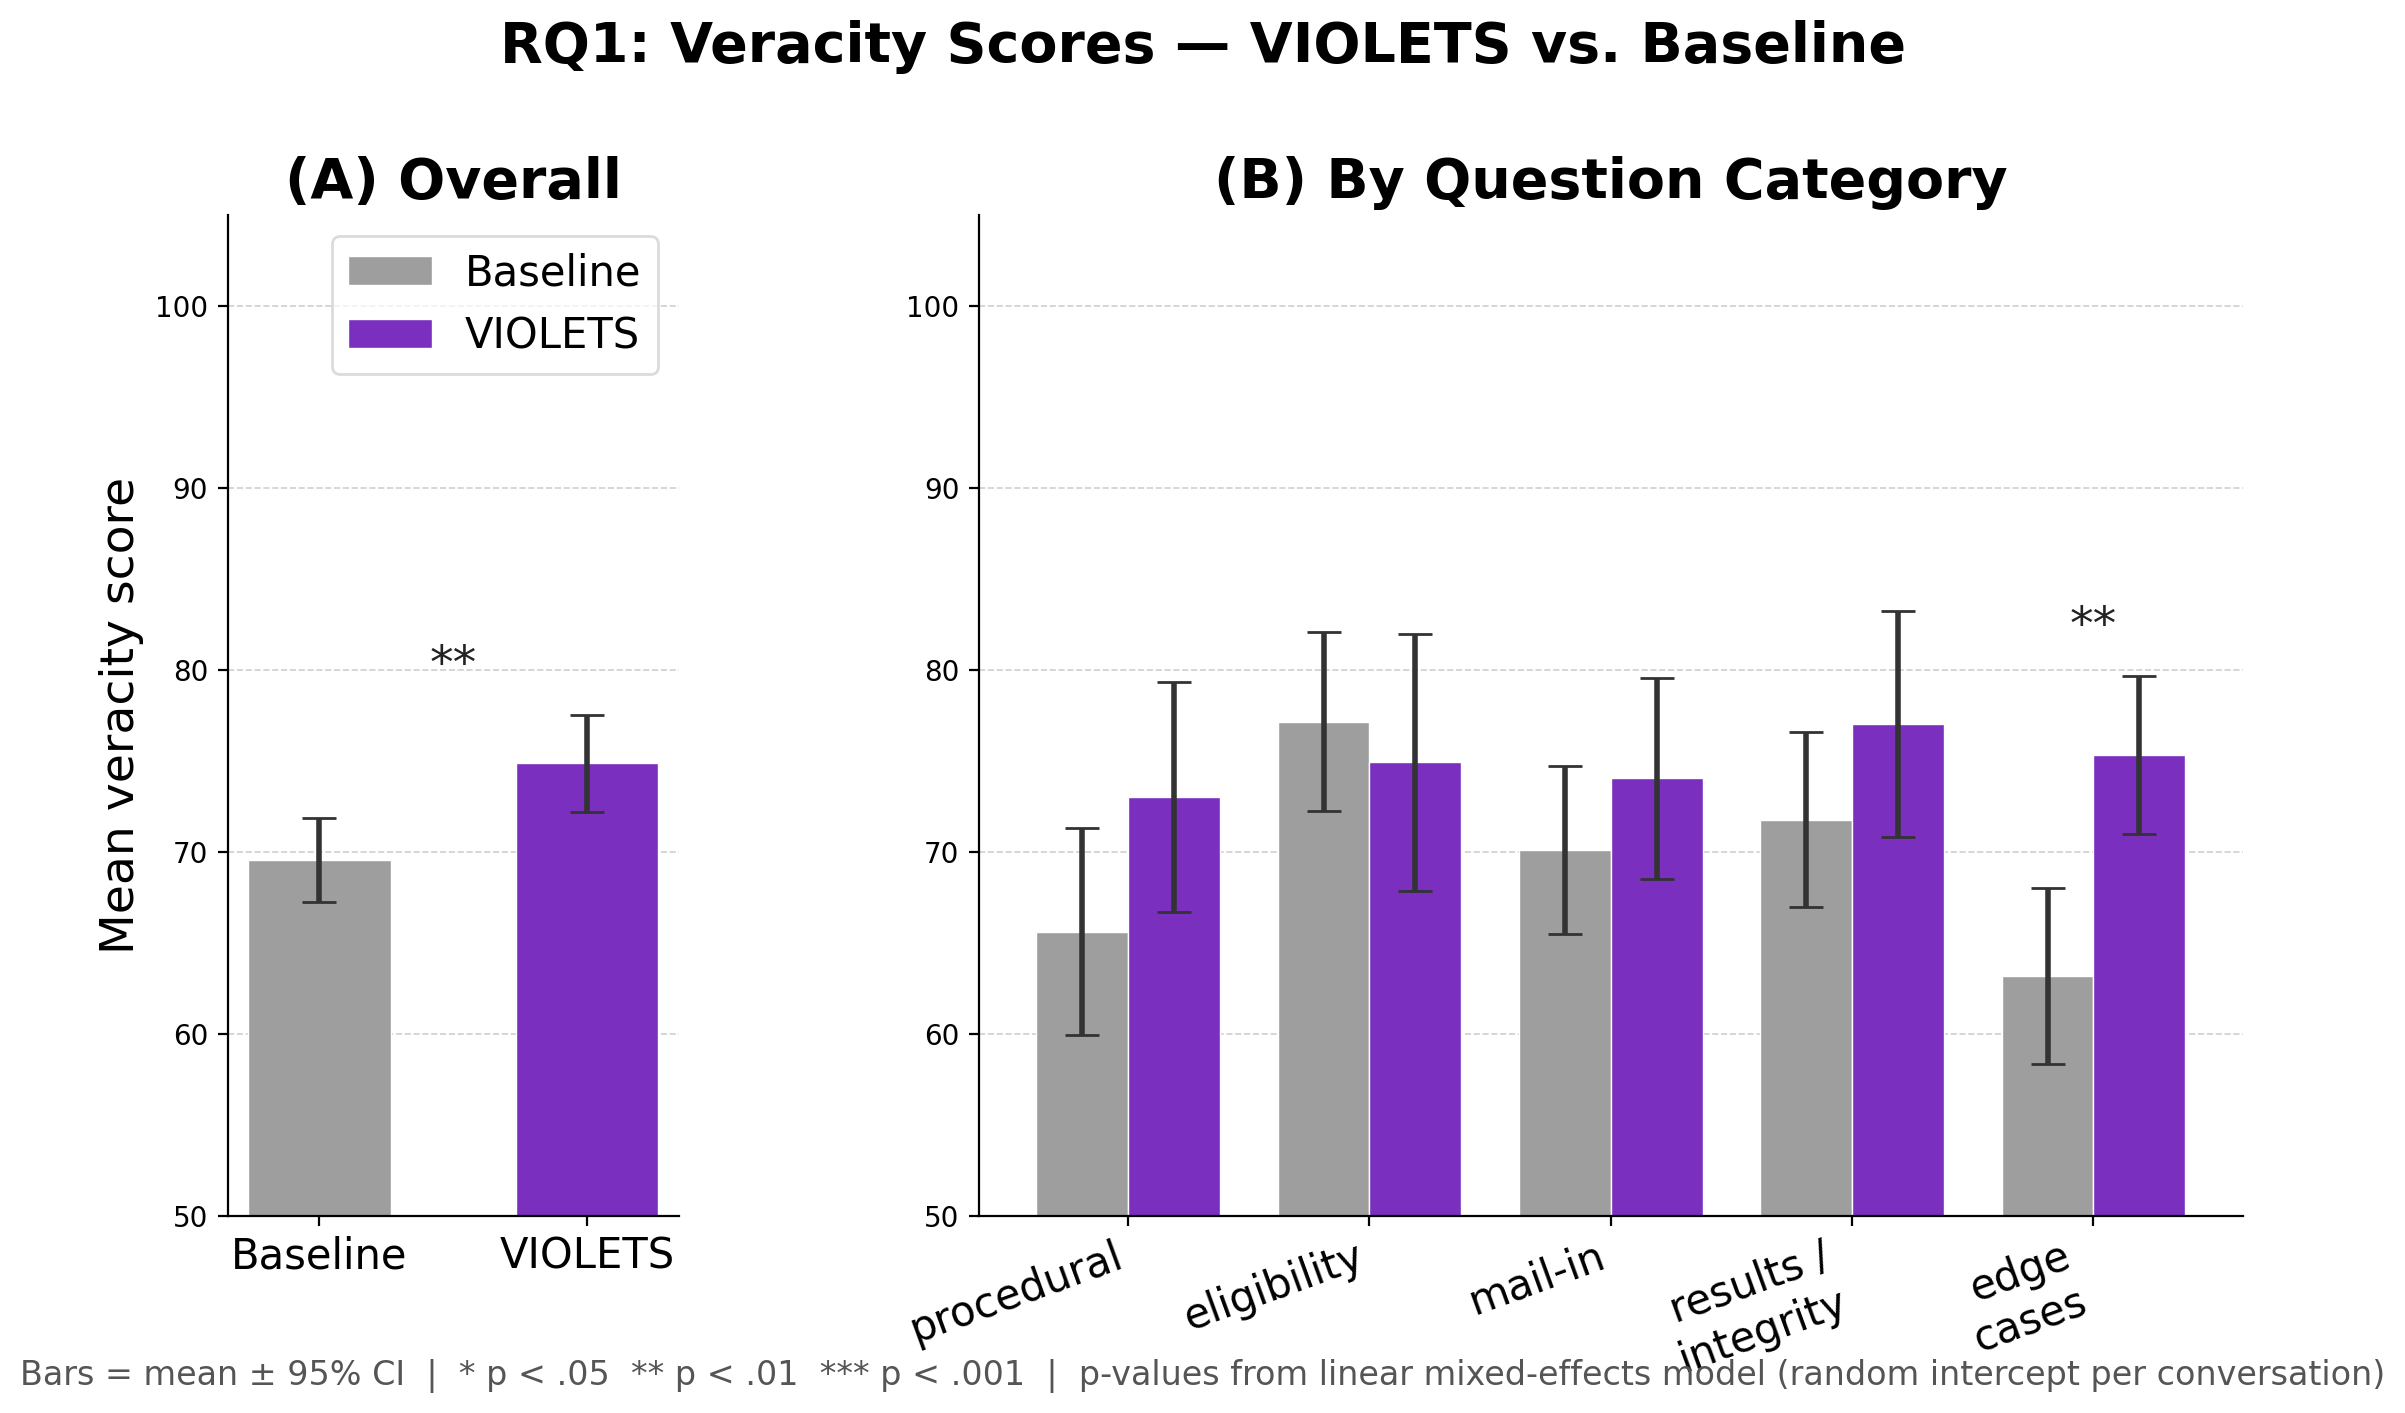
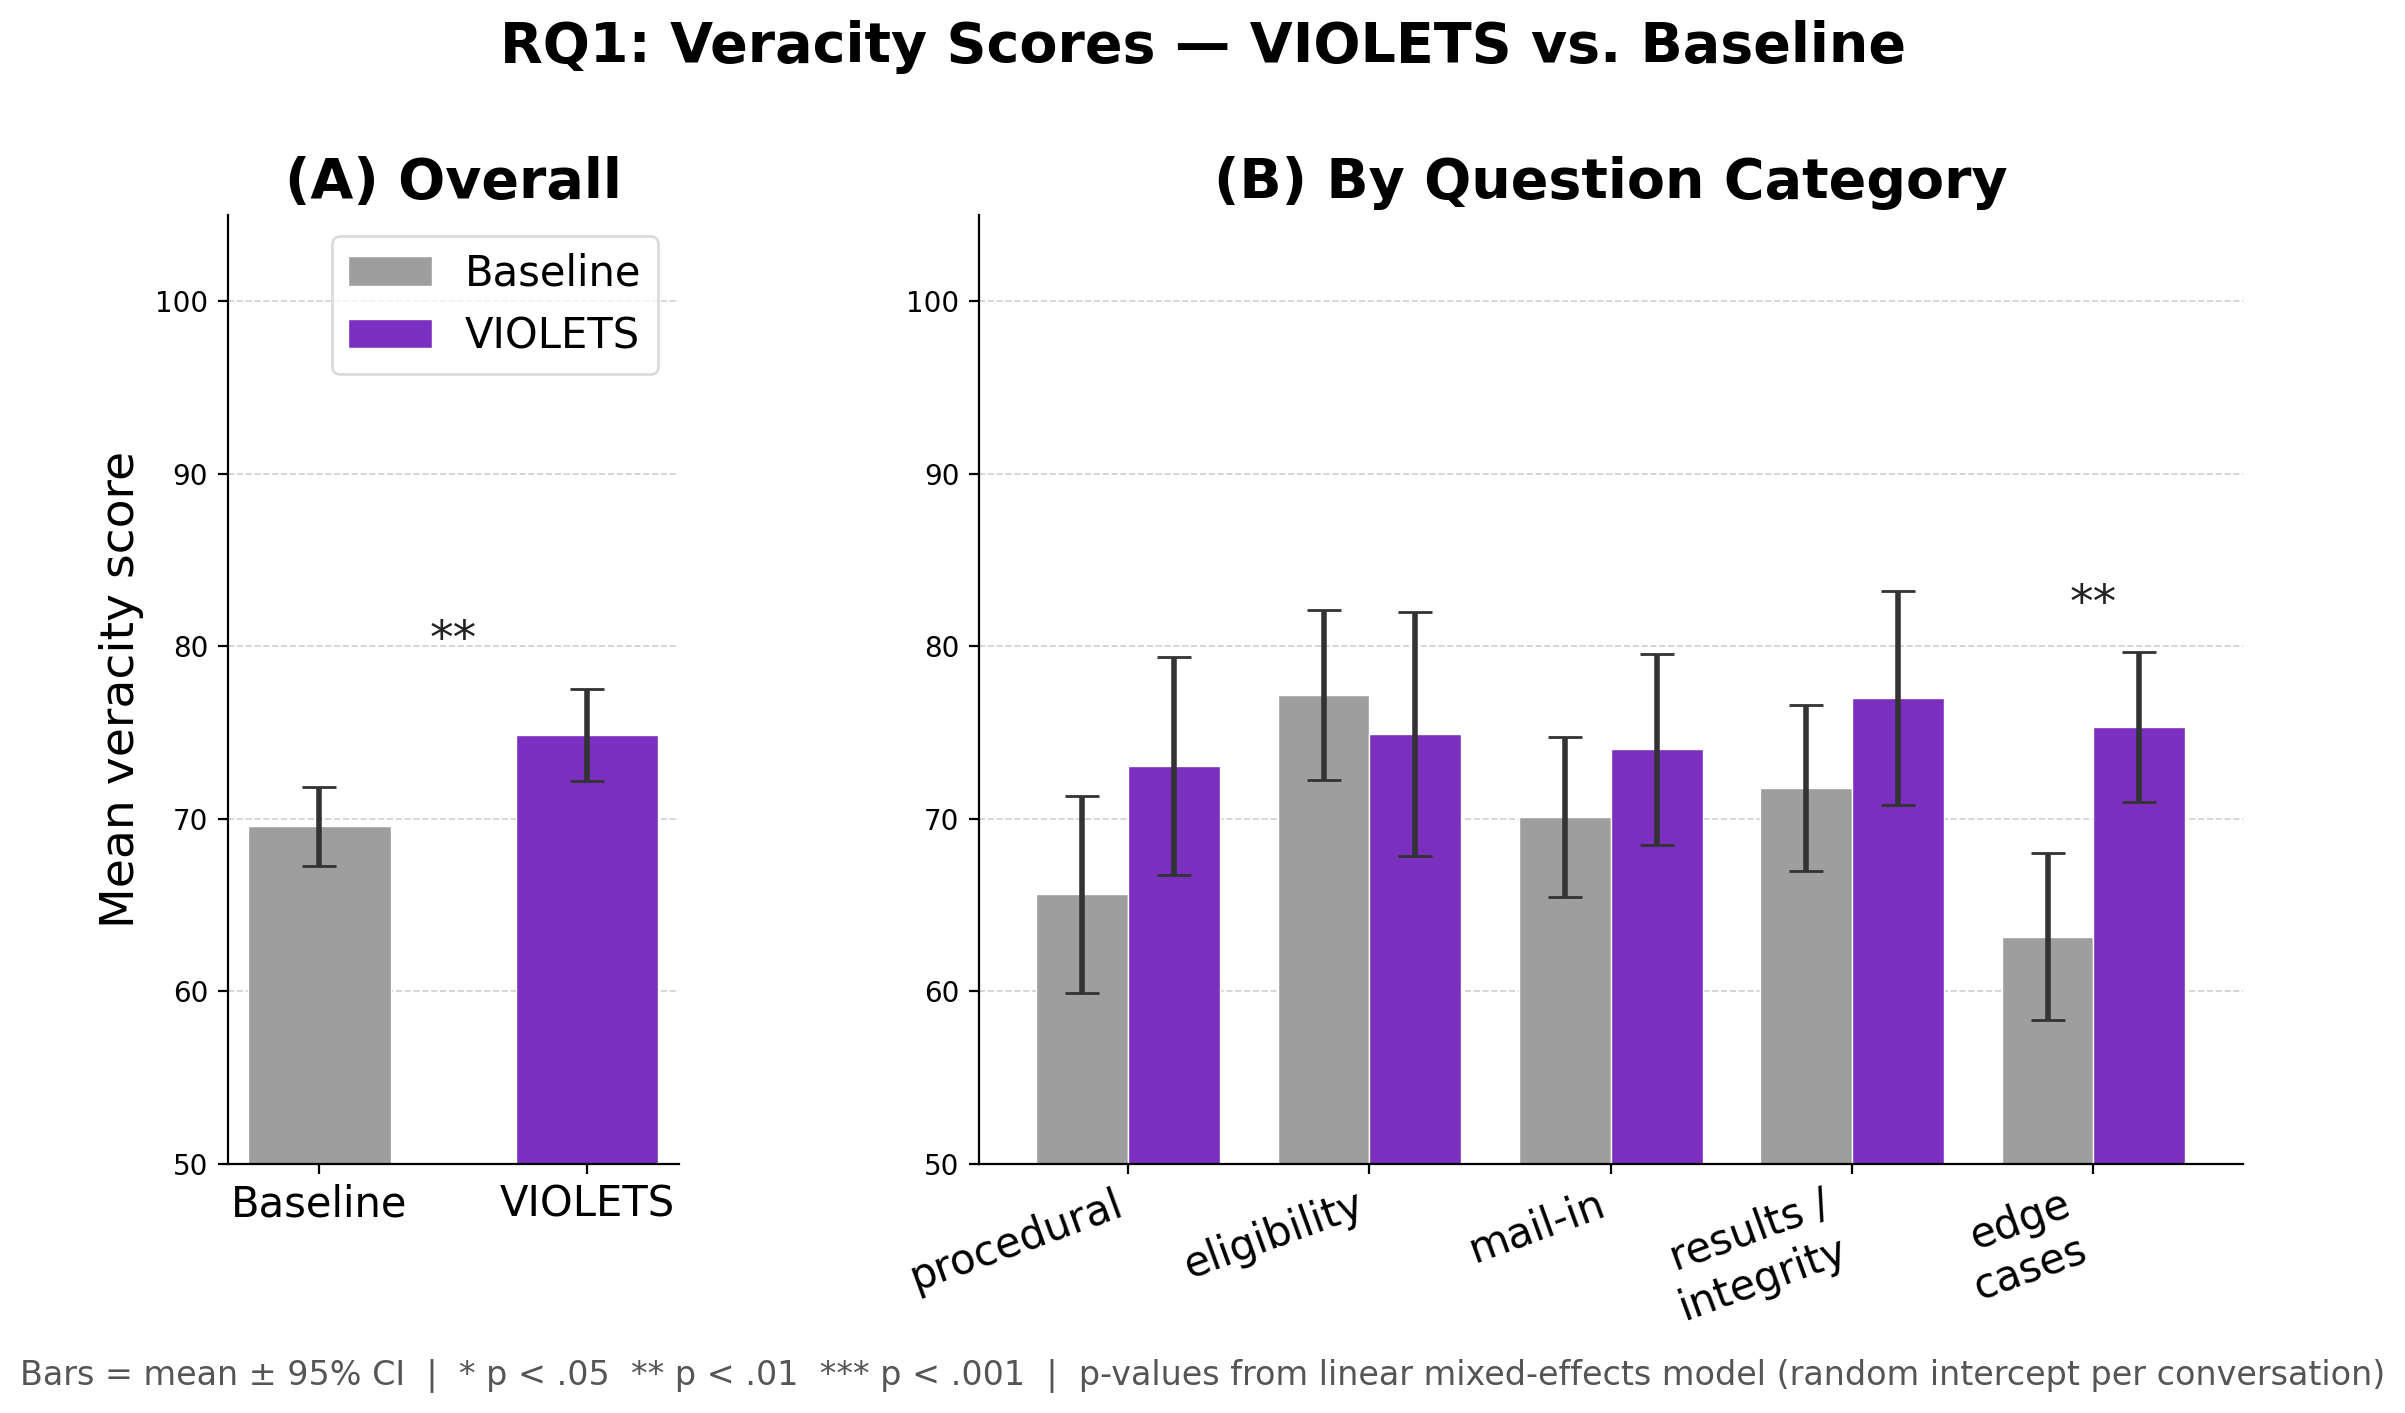
Update plot
Per GLC's comment (Poster)

diff --git a/RQ2_analyze.py b/RQ2_analyze.py
@@ -798,7 +798,7 @@ def build_combined_figure(
     fig, axes = plt.subplots(
         1, 2, figsize=(13, 6.5), gridspec_kw={"width_ratios": [1, 2.8]}
     )
-    fig.subplots_adjust(wspace=0.35)
+    fig.subplots_adjust(wspace=0.35, bottom=0.15)
 
     def _annotate_stars(ax, x_center, top_y, stars):
         if stars == "ns":
@@ -899,7 +899,6 @@ def build_combined_figure(
     ax.set_title("(A) Overall", fontsize=FS["title"], fontweight="bold")
     ax.set_ylabel(ylabel, fontsize=FS["label"])
     ax.set_ylim(ymin, ymax + (ymax - ymin) * 0.10)
-    ax.legend(fontsize=FS["legend"], framealpha=0.7)
     ax.yaxis.grid(True, linestyle="--", linewidth=0.6, alpha=0.6)
     ax.set_axisbelow(True)
     ax.spines[["top", "right"]].set_visible(False)
@@ -917,7 +916,7 @@ def build_combined_figure(
         p_col="category",
         rotate=20,
         ha="right",
-        show_legend=False,
+        show_legend=True,
     )
     axes[1].set_title("(B) By Threat Category", fontsize=FS["title"], fontweight="bold")
 

diff --git a/RQ1_analyze.py b/RQ1_analyze.py
@@ -615,7 +615,7 @@ def build_combined_figure(
     fig, axes = plt.subplots(
         1, 2, figsize=(13, 6.5), gridspec_kw={"width_ratios": [1, 2.8]}
     )
-    fig.subplots_adjust(wspace=0.35)
+    fig.subplots_adjust(wspace=0.35, bottom=0.15)
 
     def _annotate_stars(ax, x_center, top_y, stars):
         """Place significance marker just above the tallest error bar."""
